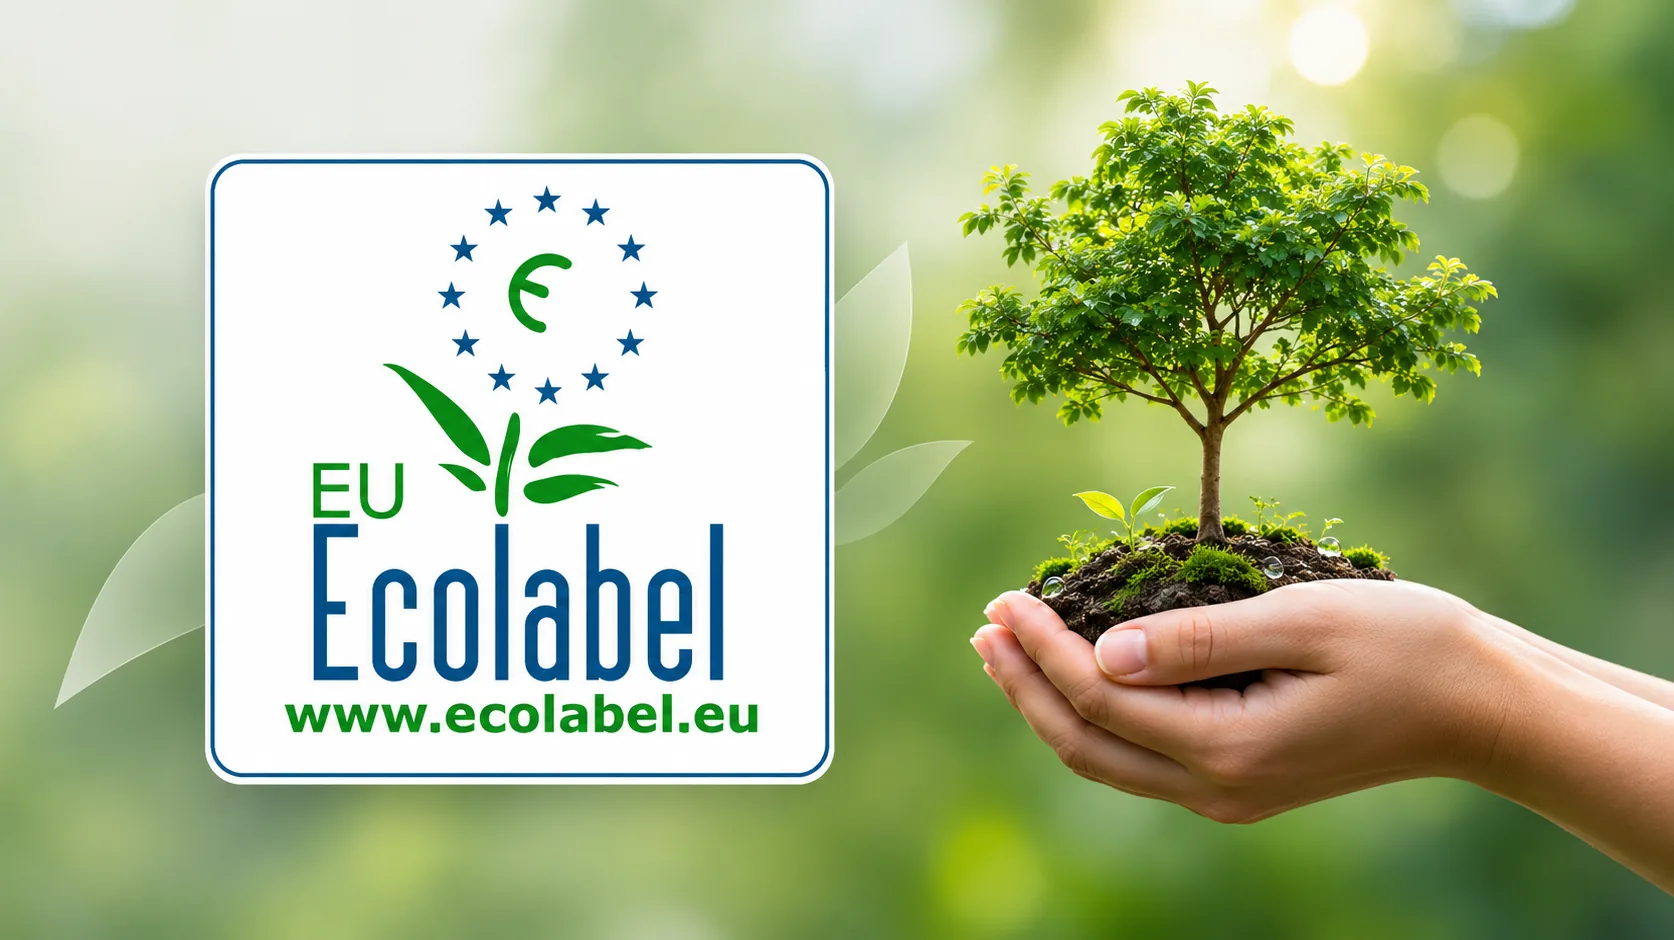
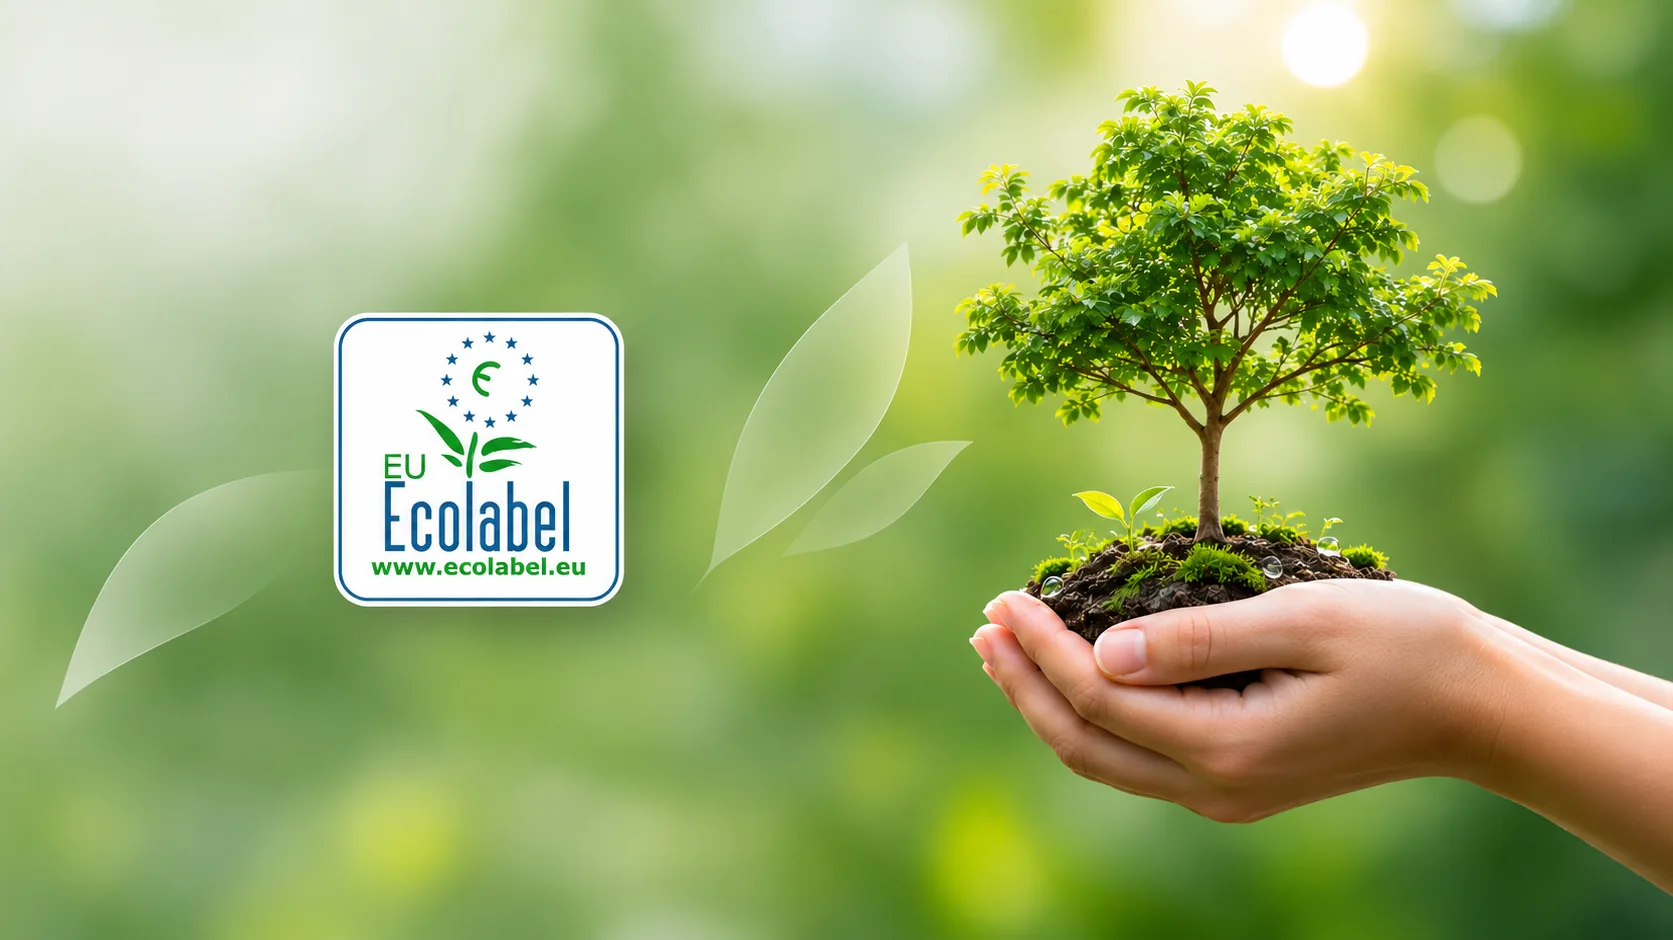
Écolabel : photo de haut de page en plein écran (#7)
* Refond le site en pages séparées, une par rubrique

Remplace le site React compilé d'une seule page par des pages HTML
simples (Qui sommes-nous, Propreté, Gestion des déchets, Écolabel, FAQ,
Contactez-nous) avec une feuille de style commune. Contenu repris de la
brochure 2027. Plus d'animations au défilement ni de carrousel.

Claude-Session: https://claude.ai/code/session_01T58N33PMHC6qr7RmpLHC2e

* Ajoute netlify.toml : site statique sans compilation

L'aperçu Netlify échouait en cherchant encore l'ancienne compilation Vite.

Claude-Session: https://claude.ai/code/session_01T58N33PMHC6qr7RmpLHC2e

* Reprend le texte de présentation fourni par lohan (Qui sommes-nous et FAQ)

Claude-Session: https://claude.ai/code/session_01T58N33PMHC6qr7RmpLHC2e

* Donne au site un style plus luxe : fonds sombres, grandes photos, effets discrets

Grands bandeaux photo, mosaïques d'interventions, cartes photo, bande de
chiffres clés tirés de la brochure, textes découpés en blocs courts.
Effets légers et stables : apparition douce au défilement (coupée si le
visiteur préfère moins d'animations, contenu visible sans script),
zoom lent des photos au survol, soulignement du menu.

Claude-Session: https://claude.ai/code/session_01T58N33PMHC6qr7RmpLHC2e

* Ajoute un bandeau photos et vidéos qui défile en boucle (Qui sommes-nous)

Chaque carte porte le nom de l'événement, comme sur l'ancien site.
Défilement en CSS pur, pause au survol, arrêt et vidéos en pause hors
[…]

diff --git a/assets/neve.css b/assets/neve.css
@@ -338,12 +338,3 @@ p { margin: 0 0 1em; }
 @media (max-width: 700px) {
   .hero > img.m-zoom { transform: scale(var(--m-scale, 1.5)); transform-origin: var(--m-origin, 50% 100%); }
 }
-
-/* Photo de haut de page qui contient déjà un texte ou un logo : la photo s'affiche entière, le titre passe en dessous. */
-.hero.stack { display: block; min-height: 0; }
-.hero.stack > img { position: relative; display: block; height: auto; aspect-ratio: 16 / 9; max-height: 68vh; }
-.hero.stack::before { display: none; }
-.hero.stack .wrap { padding-top: 56px; padding-bottom: 64px; }
-@media (max-width: 700px) {
-  .hero.stack .wrap { padding-top: 36px; padding-bottom: 44px; }
-}

diff --git a/ecolabel.html b/ecolabel.html
@@ -42,8 +42,8 @@
   <main id="contenu">
 
     <!-- ===== BANDEAU PHOTO (changer la photo dans src="...") ===== -->
-    <section class="hero stack">
-      <img src="images/ecolabel-hero.webp" alt="Logo EU Ecolabel à côté de mains tenant un jeune arbre" fetchpriority="high">
+    <section class="hero">
+      <img class="m-zoom" src="images/ecolabel-hero.webp" alt="Logo EU Ecolabel à côté de mains tenant un jeune arbre" fetchpriority="high" style="object-position: 22% 100%; --m-scale: 1.4; --m-origin: 20% 100%">
       <div class="wrap">
         <p class="label">Écolabel</p>
         <h1>Écolabel européen de la propreté</h1>
